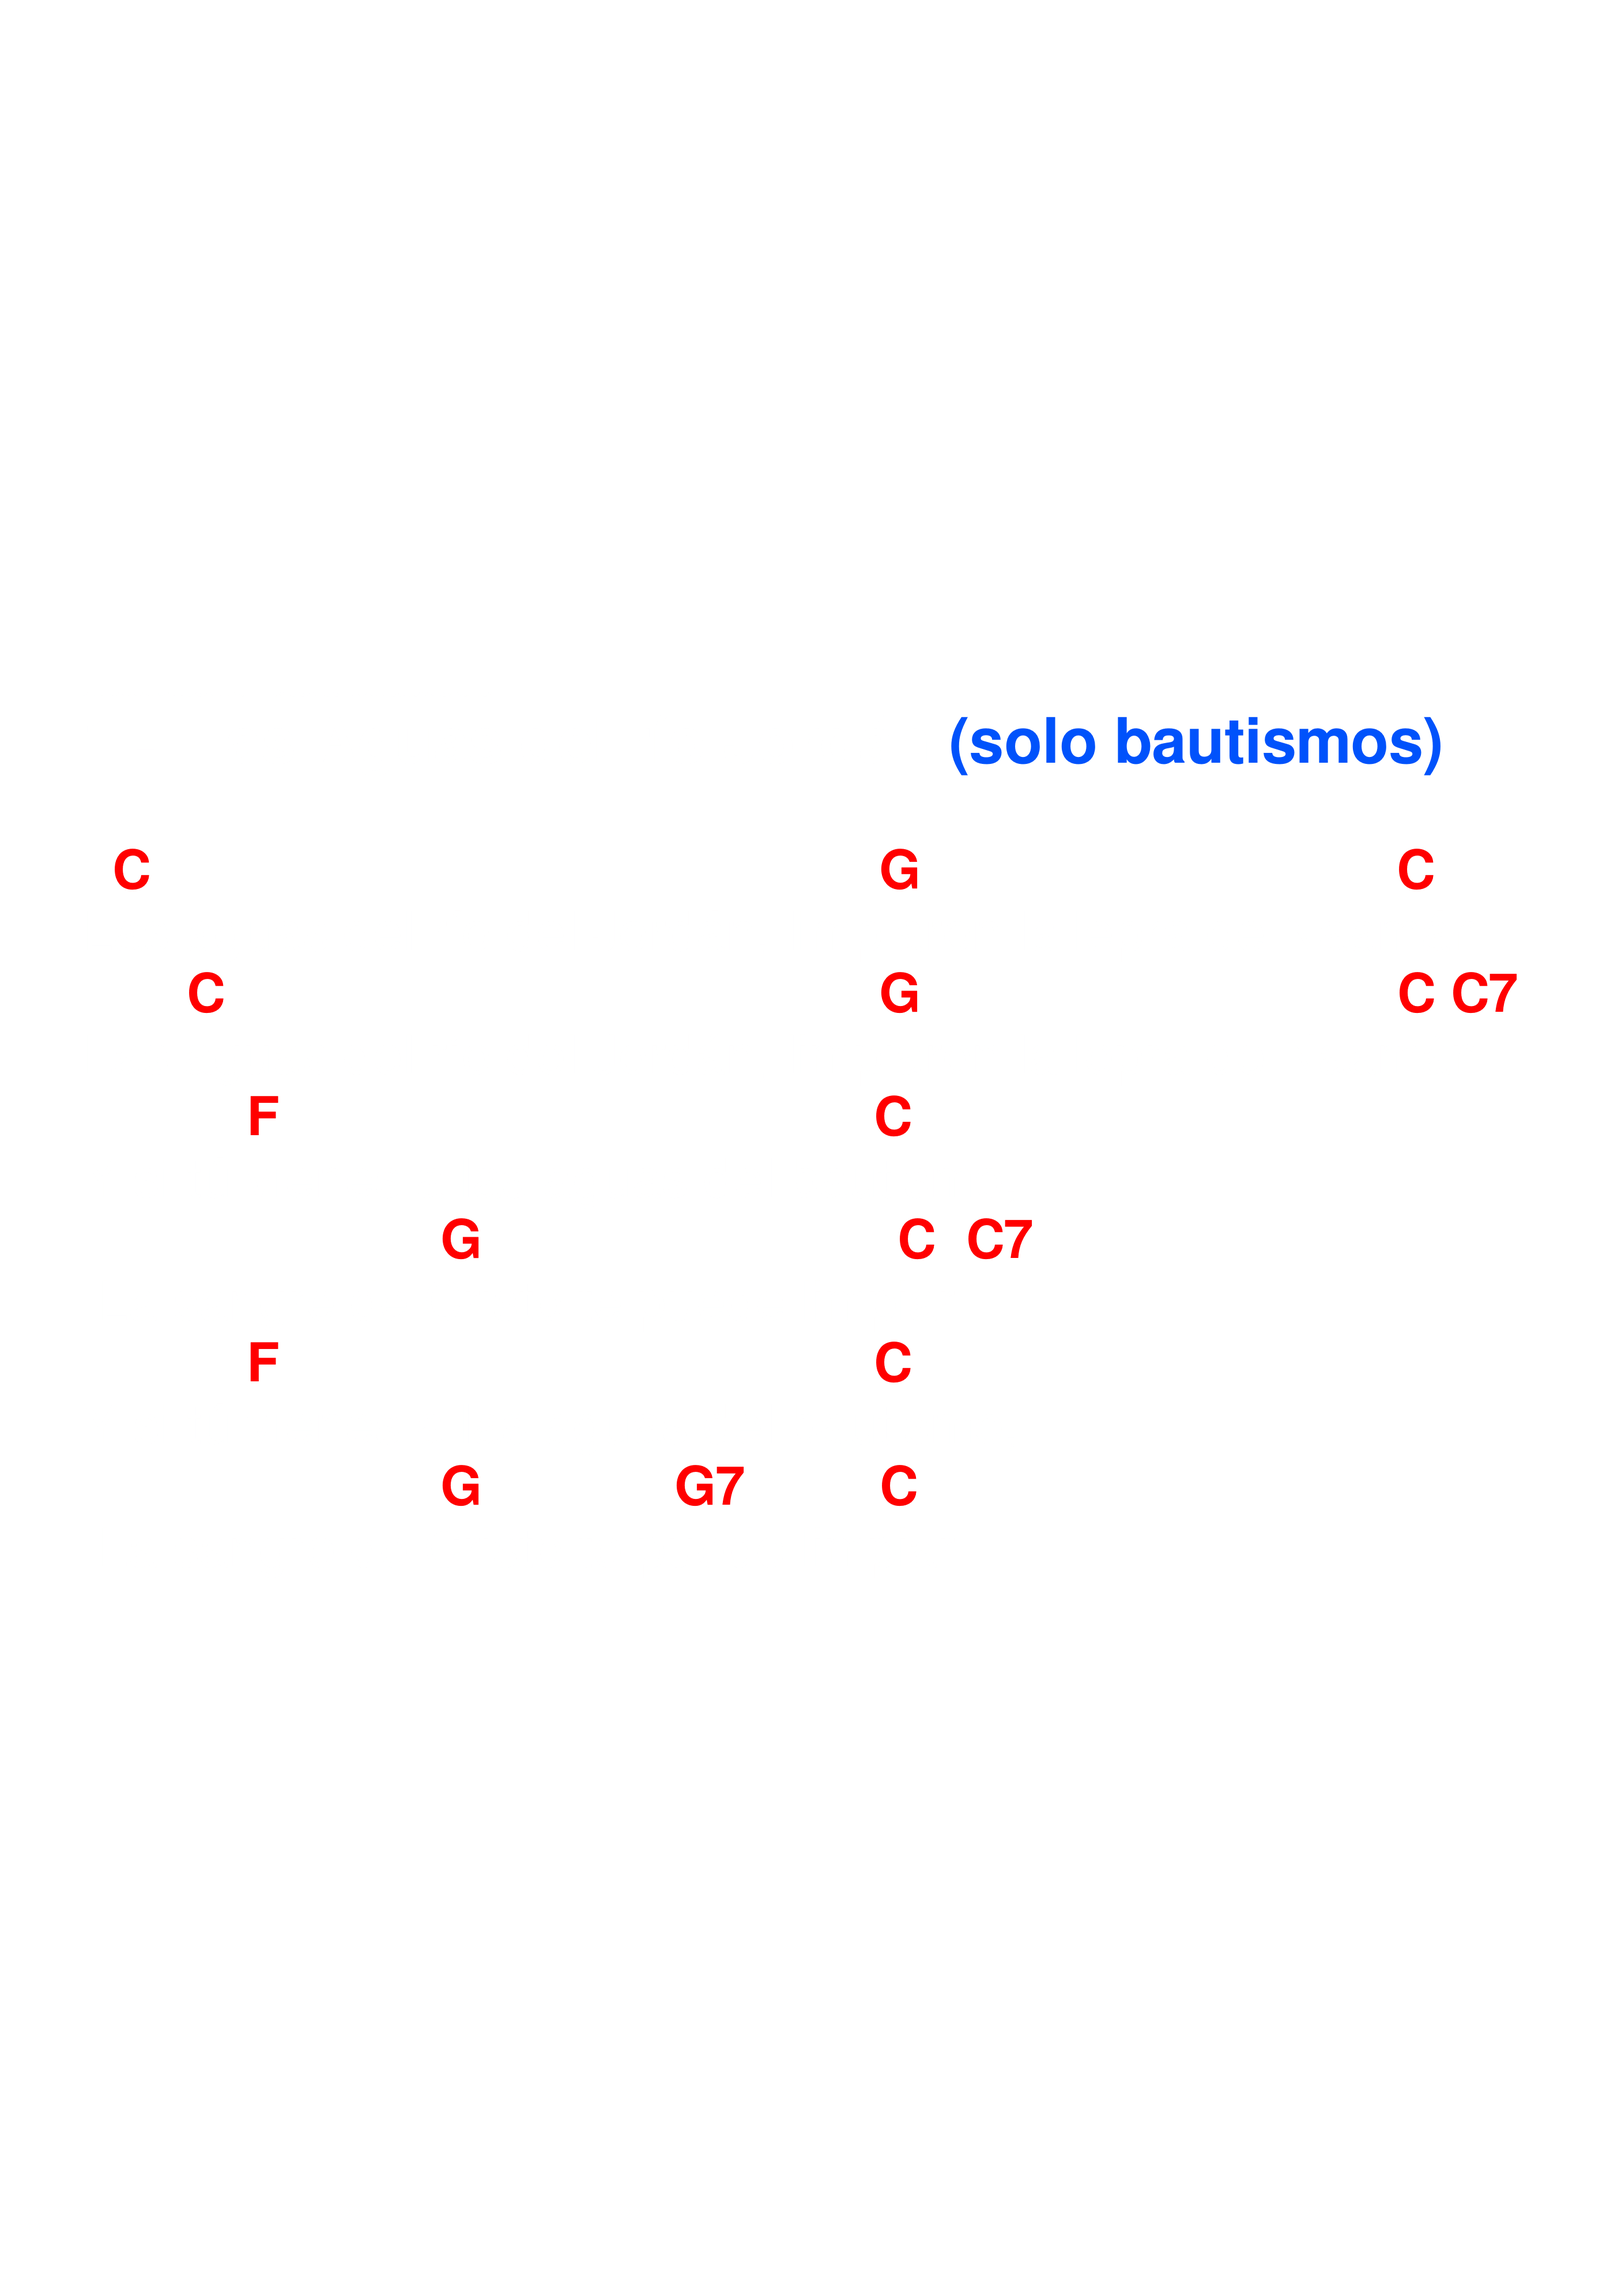
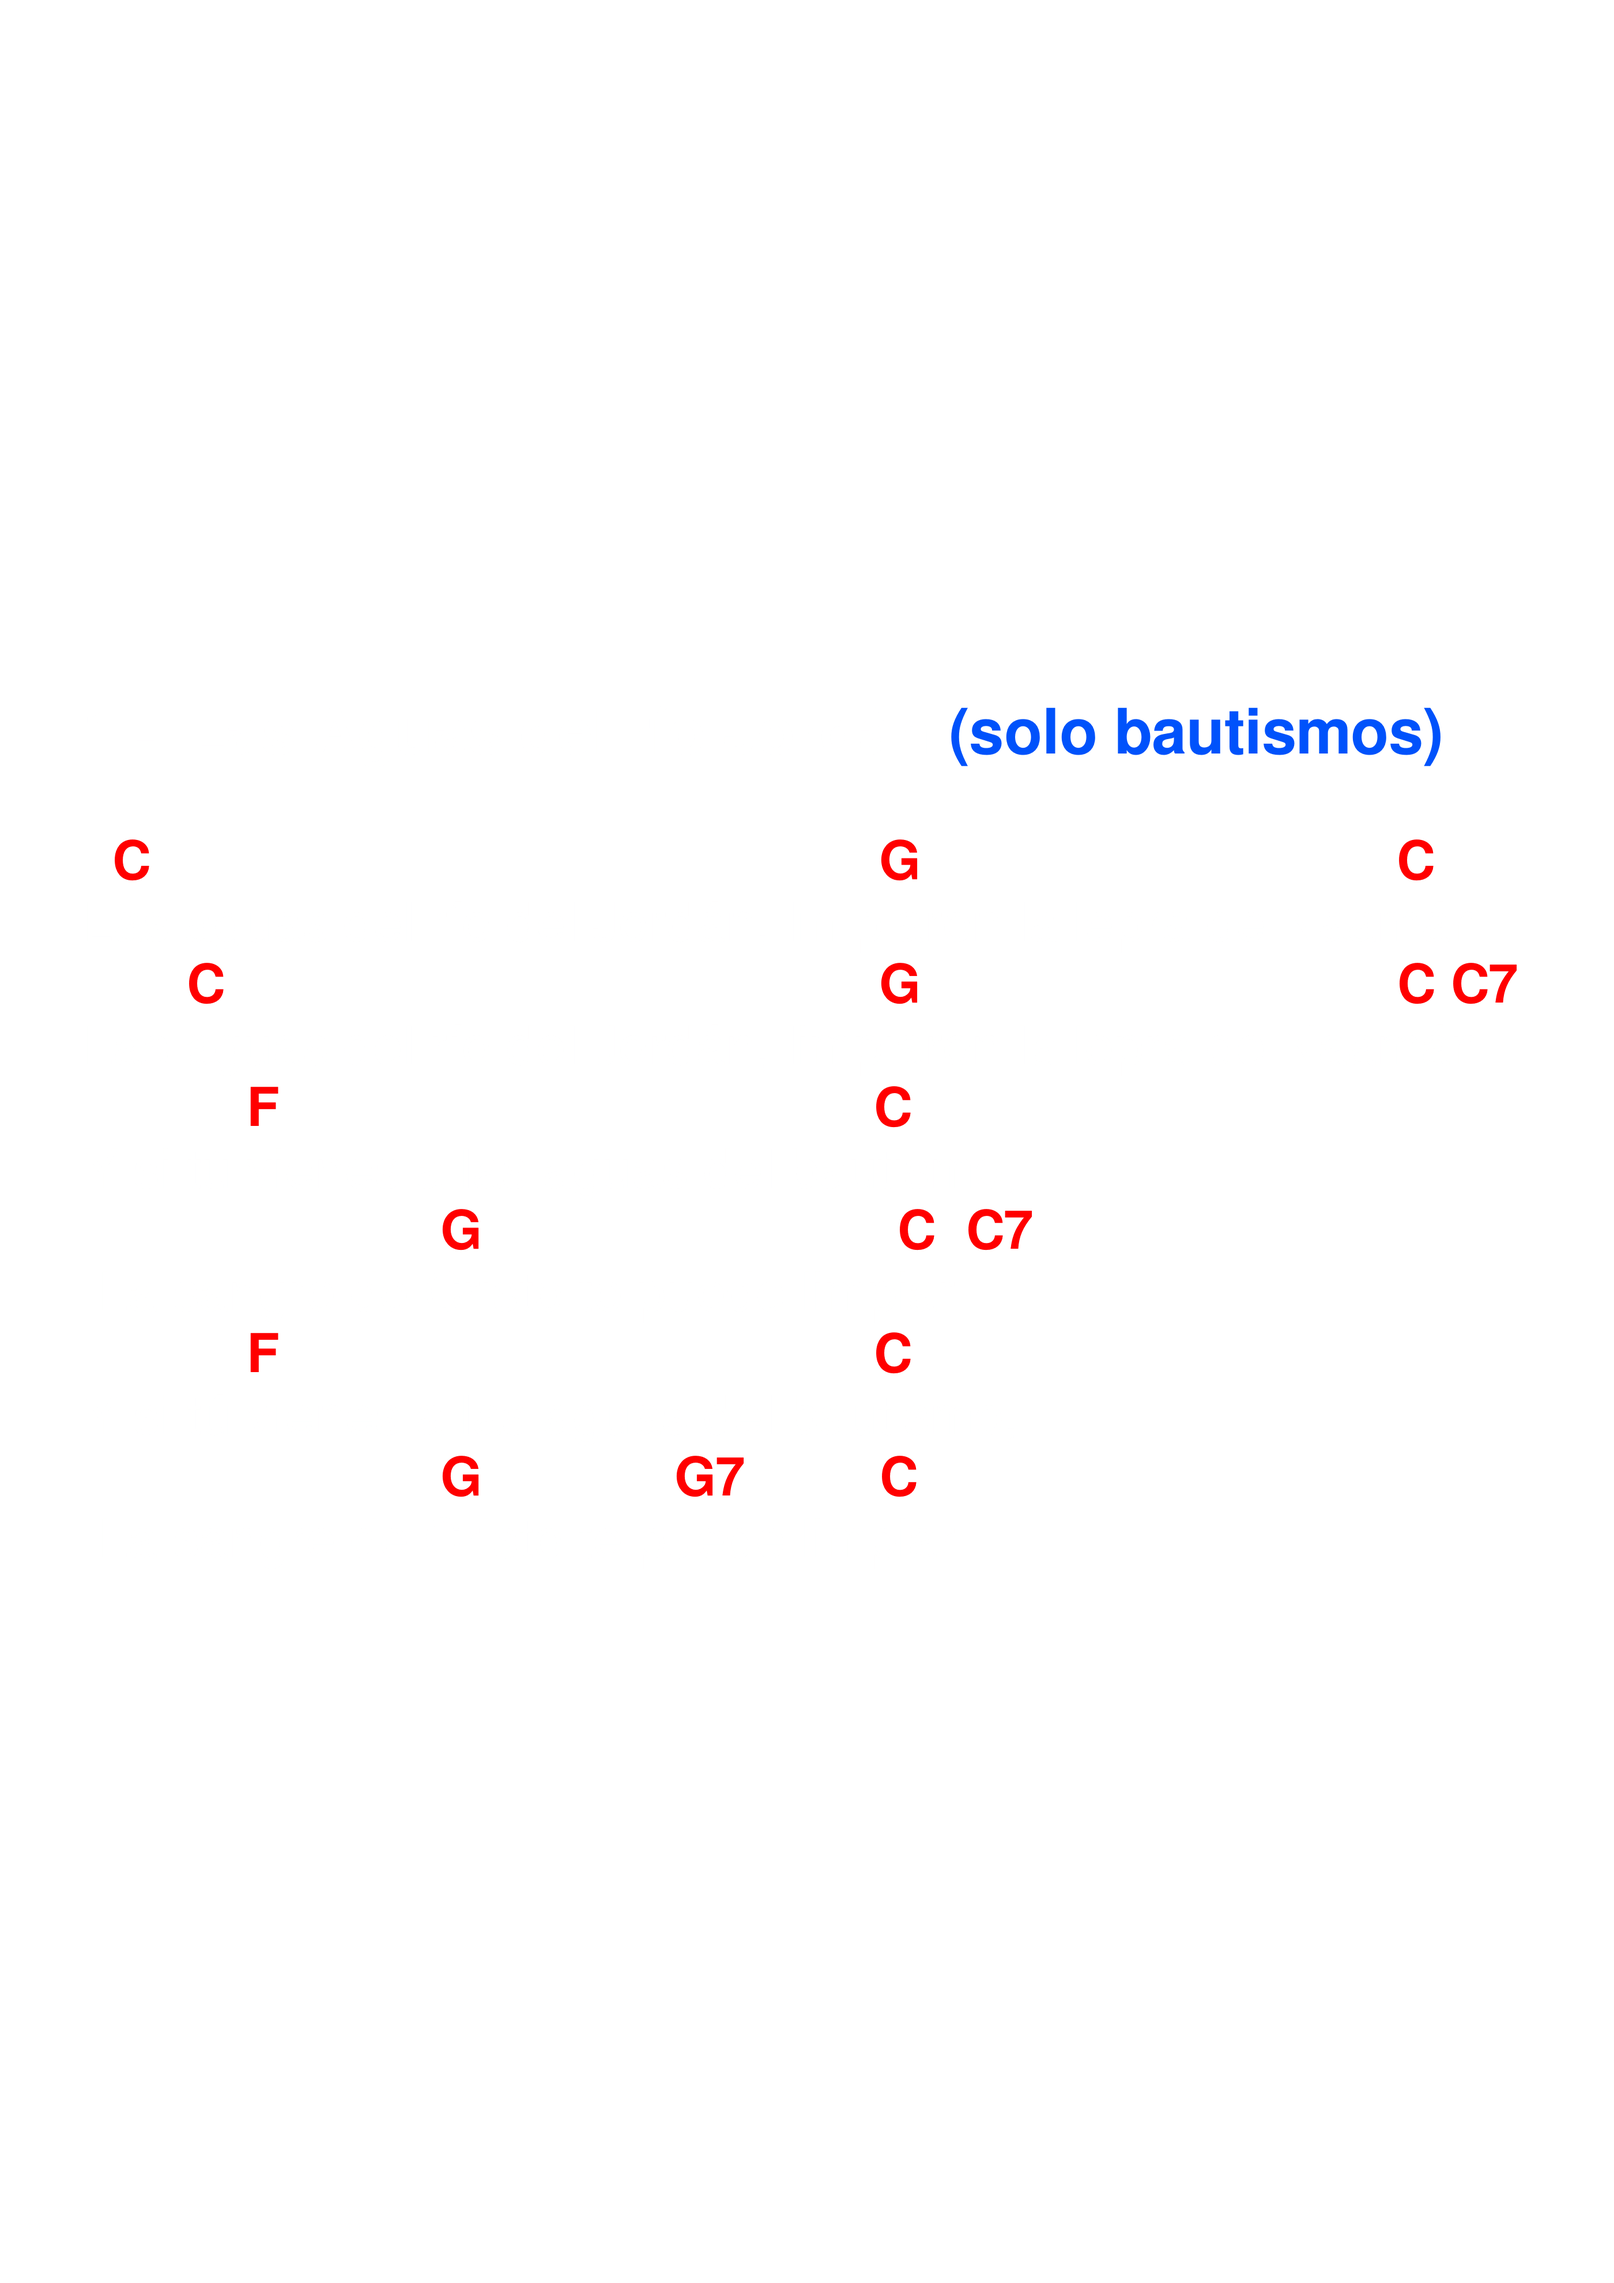
1.19.17: himno 1 sin el pedacito del encabezado sobre el titulo

diff --git a/scripts/himnario-pdf/extraer.py b/scripts/himnario-pdf/extraer.py
@@ -212,7 +212,9 @@ def main():
                 a = arriba[0]
                 for c in arriba[1:]:
                     a |= c
-                trozos.append((indice, a + (-4, -3, 4, 0)))
+                # sin margen arriba: el título ya trae su espacio y en el himno 1 el encabezado de la página termina
+                # justo donde empieza el título (se colaba un pedacito de "Himnario para músicos")
+                trozos.append((indice, a + (-4, 1, 4, 0)))
                 if abajo:
                     b = abajo[0]
                     for c in abajo[1:]:
